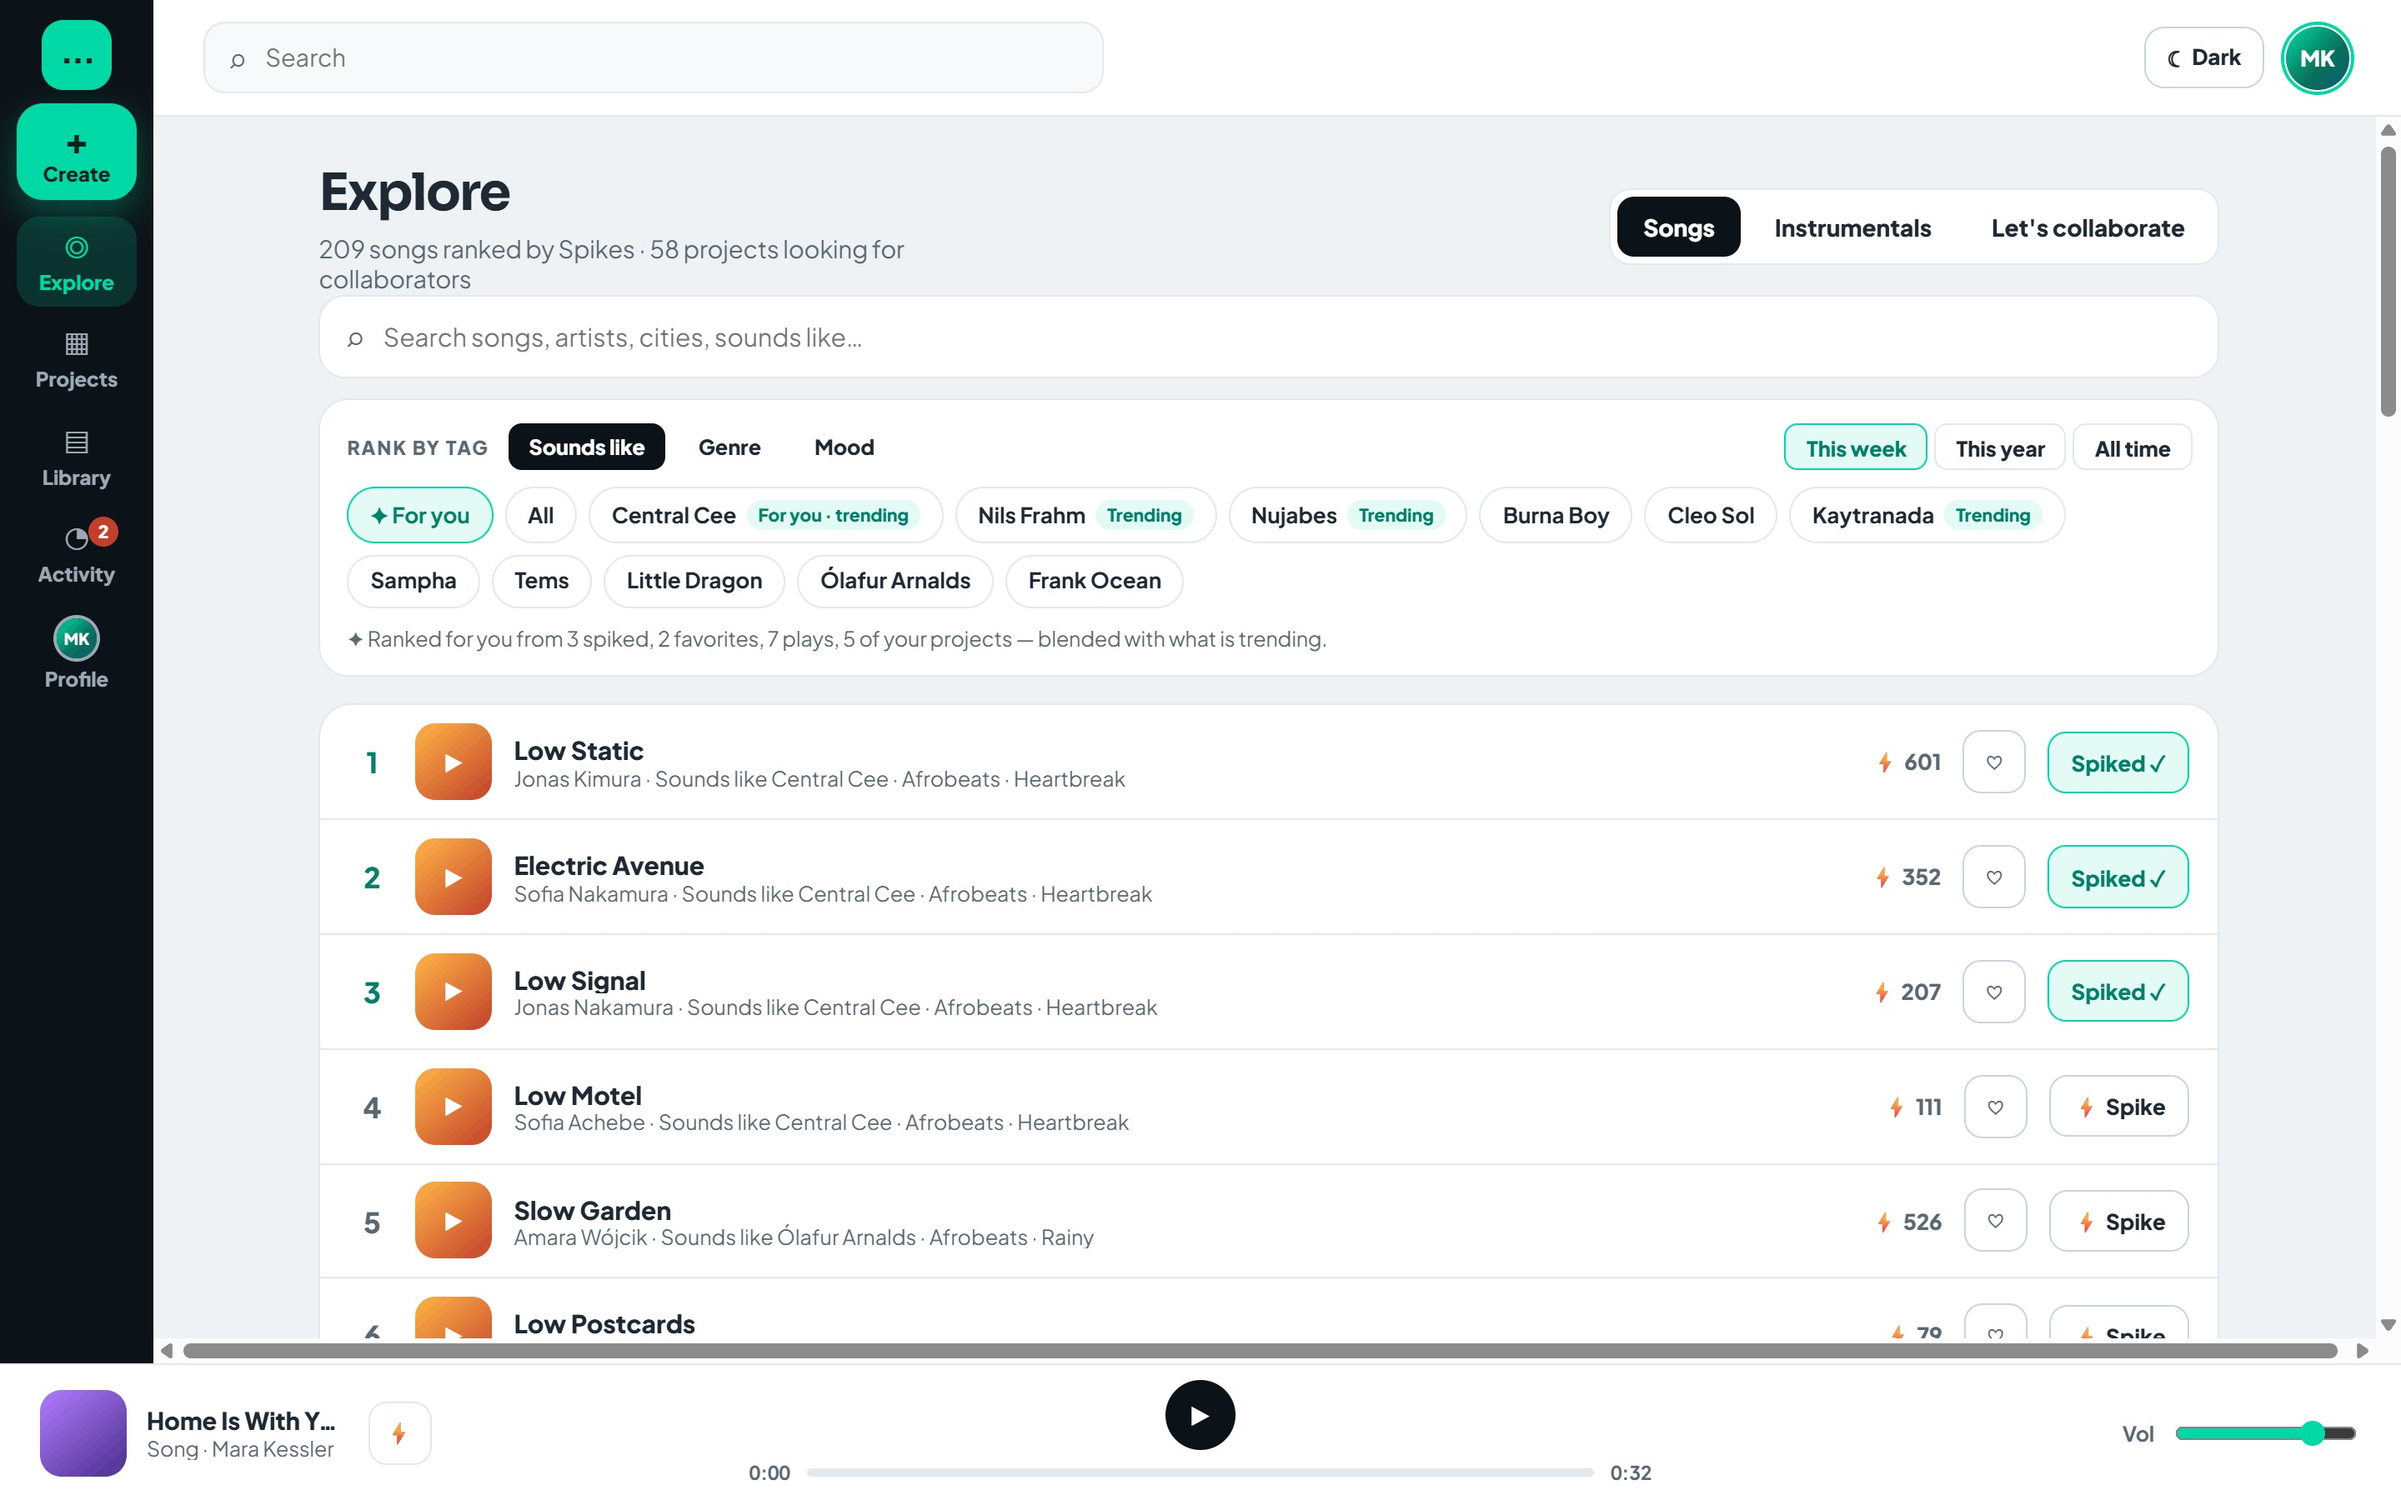
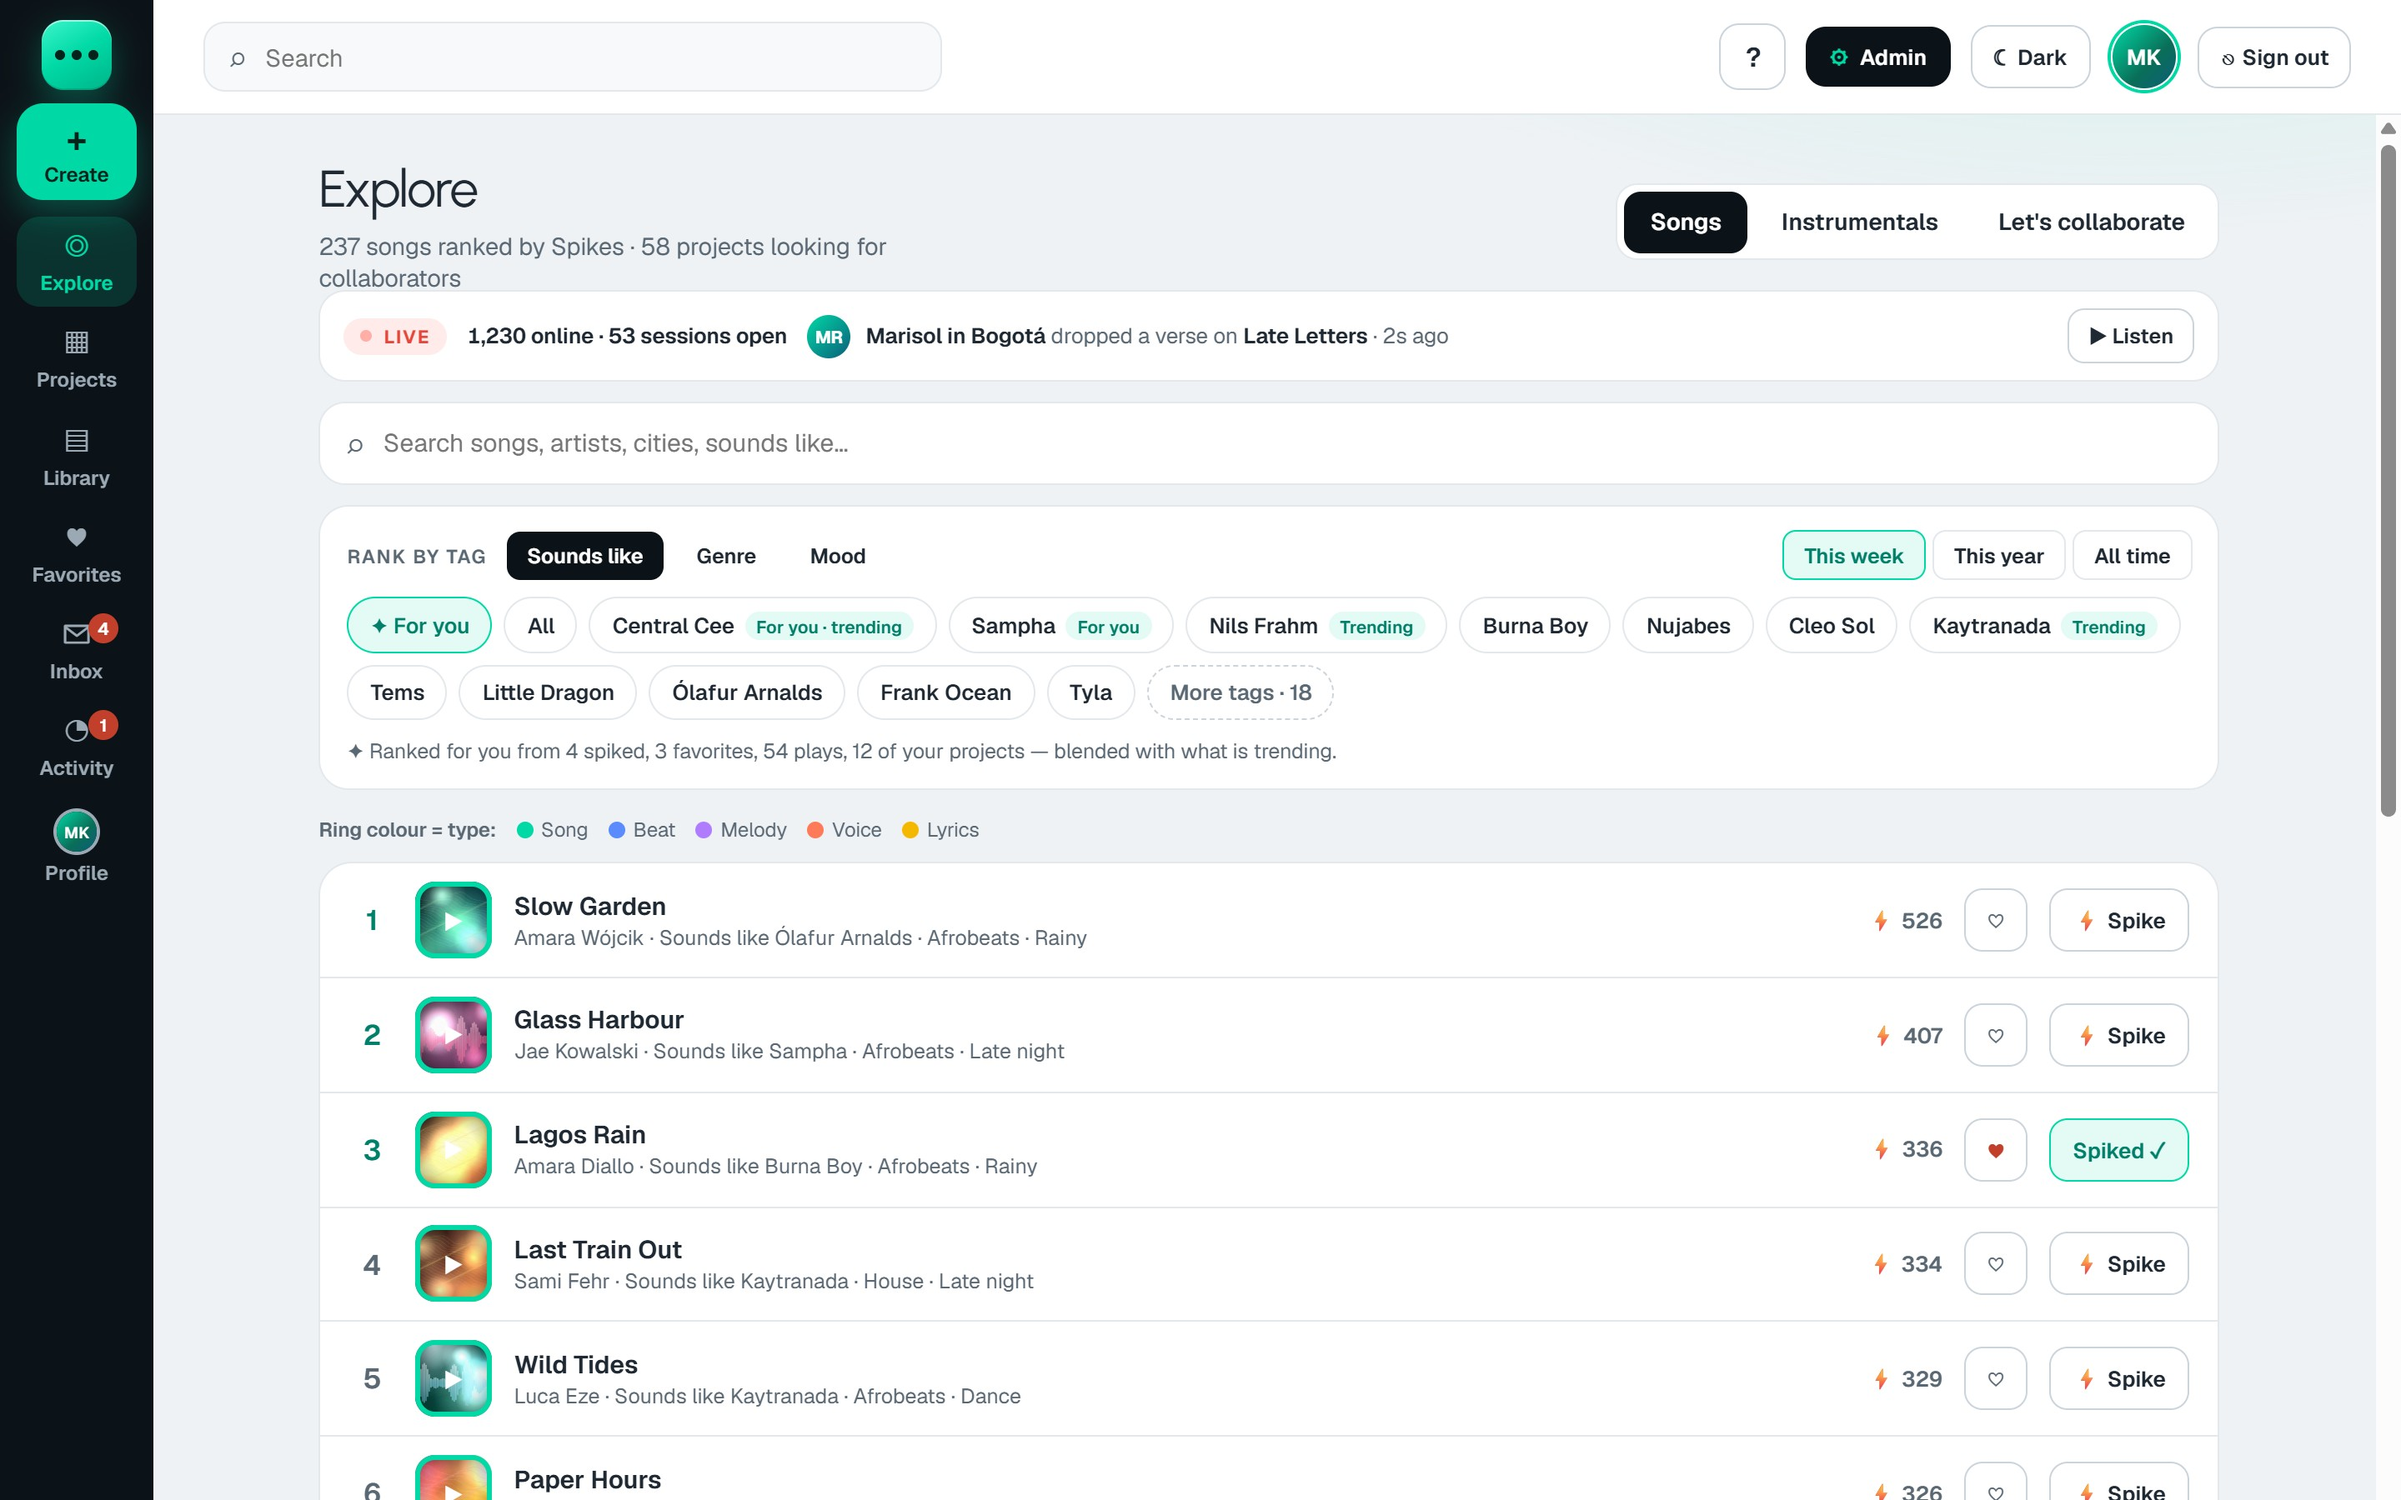
Homepage

diff --git a/app/index.html b/app/index.html
@@ -150,7 +150,7 @@
                   <span style="font-size:13px;color:var(--dim);white-space:nowrap;overflow:hidden;text-overflow:ellipsis"><b style="color:var(--ink);font-weight:620">{{ liveWho }}</b> {{ liveVerb }} <b style="color:var(--ink);font-weight:620">{{ liveWhat }}</b> · {{ liveAgo }}</span>
                 </span>
               </span>
-              <button onClick="{{ liveGo }}" style="flex:none;padding:7px 12px;border:1px solid var(--line2);border-radius:10px;background:transparent;color:var(--ink);font-size:12.5px;font-weight:620;cursor:pointer">▶ Listen</button>
+              <button onClick="{{ liveGo }}" style="flex:none;white-space:nowrap;padding:7px 12px;border:1px solid var(--line2);border-radius:10px;background:transparent;color:var(--ink);font-size:12.5px;font-weight:620;cursor:pointer">▶ Listen</button>
             </div>
 
             <div style="display:flex;align-items:center;gap:10px;padding:0 16px;height:50px;border-radius:16px;background:var(--panel);border:1px solid {{ exQBorder }};margin-bottom:12px">
@@ -165,9 +165,9 @@
             <sc-if value="{{ showFilter }}" hint-placeholder-val="{{ true }}">
               <div style="padding:14px 16px;border-radius:18px;background:var(--panel);border:1px solid var(--line);margin-bottom:16px">
                 <div style="display:flex;align-items:center;gap:8px;flex-wrap:wrap;margin-bottom:10px">
-                  <span style="font-size:11.5px;font-weight:620;letter-spacing:0.08em;color:var(--dim);margin-right:4px">RANK BY TAG</span>
+                  <span style="font-size:11.5px;font-weight:620;letter-spacing:0.08em;color:var(--dim);margin-right:4px;white-space:nowrap">RANK BY TAG</span>
                   <sc-for list="{{ facetTabs }}" as="f" hint-placeholder-count="3">
-                    <button onClick="{{ f.go }}" style="padding:6px 12px;border:0;border-radius:8px;background:{{ f.bg }};color:{{ f.fg }};font-size:12.5px;font-weight:620;cursor:pointer">{{ f.label }}</button>
+                    <button onClick="{{ f.go }}" style="white-space:nowrap;padding:6px 12px;border:0;border-radius:8px;background:{{ f.bg }};color:{{ f.fg }};font-size:12.5px;font-weight:620;cursor:pointer">{{ f.label }}</button>
                   </sc-for>
                   <div style="flex:1"></div>
                   <sc-if value="{{ showPeriods }}" hint-placeholder-val="{{ true }}">

diff --git a/index.html b/index.html
@@ -2,6 +2,7 @@
 <html>
 <head>
 <meta charset="utf-8">
+<meta name='dmca-site-verification' content='NWlzY2V5aGs5RkJIUUpPZEpYdHI3SVVaNFIxS3JpRVozWUJUM215a0c3ST01' />
 <meta name="viewport" content="width=device-width, initial-scale=1">
 <script src="./support.js"></script>
 </head>
@@ -136,7 +137,7 @@
         <span style="flex:1;max-width:340px;margin-left:14px;padding:5px 14px;border-radius:7px;background:rgba(0,0,0,0.28);color:#C9D4DB;font-size:12.5px;font-weight:540;text-align:center">ellipsismusic.net/app</span>
         <span style="flex:1"></span>
       </div>
-      <a href="app/index.html" title="Open Ellipsis" style="display:block;background:#EFF2F5;line-height:0"><img src="icons/app-preview.jpg" alt="The Ellipsis app: Explore, ranked for you by Sounds like, genre and mood" style="display:block;width:100%;height:auto"></a>
+      <a href="app/index.html" title="Open Ellipsis" style="display:block;background:#EFF2F5;line-height:0"><img src="icons/app-preview.jpg?v=80515" alt="The Ellipsis app: Explore, ranked for you by Sounds like, genre and mood" style="display:block;width:100%;height:auto"></a>
     </div>
   </section>
 

diff --git a/app/sw.js b/app/sw.js
@@ -1,5 +1,5 @@
 /* Ellipsis offline shell. Bump CACHE on every deploy. */
-var CACHE = 'ellipsis-v78';
+var CACHE = 'ellipsis-v79';
 var CORE = ["support.js","manifest.webmanifest","assets/audio/lofi.wav","assets/audio/afrobeats.wav","assets/audio/neosoul.wav","assets/audio/drill.wav","assets/audio/house.wav","assets/audio/ambient.wav"];
 
 self.addEventListener('install', function (e) {

diff --git a/dmca-validation.html b/dmca-validation.html
@@ -1,0 +1,1 @@
+NWlzY2V5aGs5RkJIUUpPZEpYdHI3SVVaNFIxS3JpRVozWUJUM215a0c3ST01
